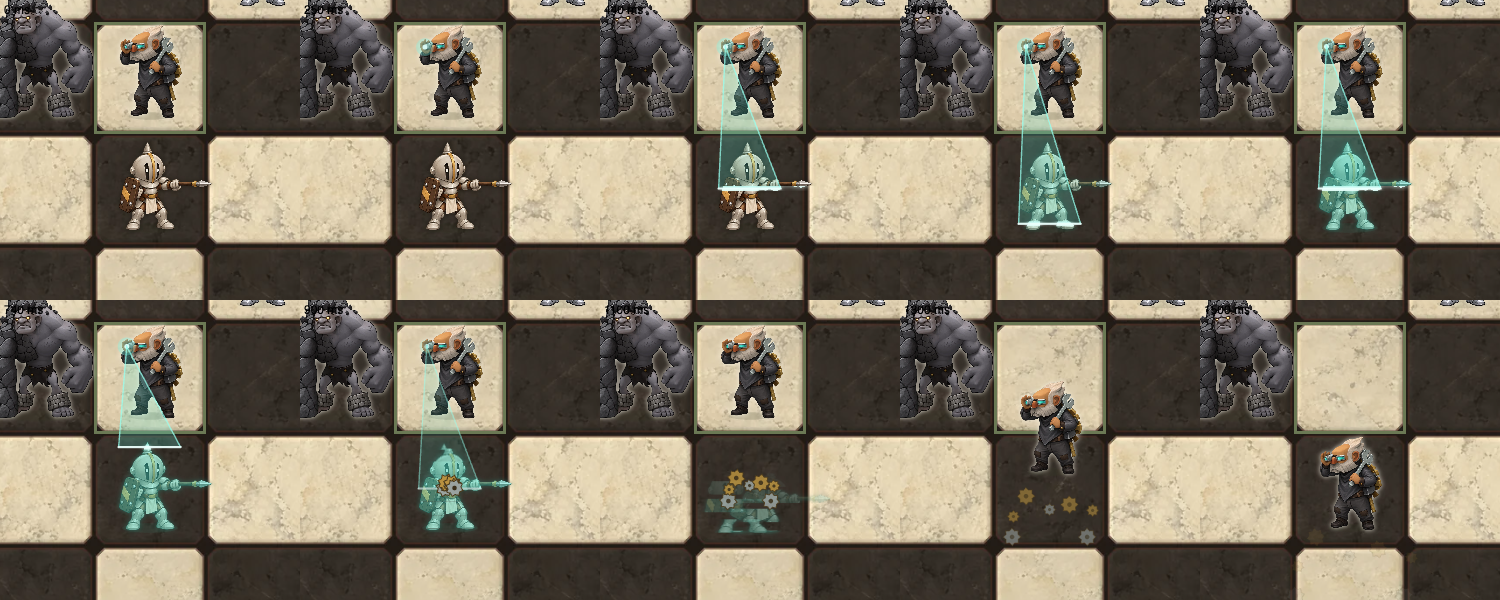
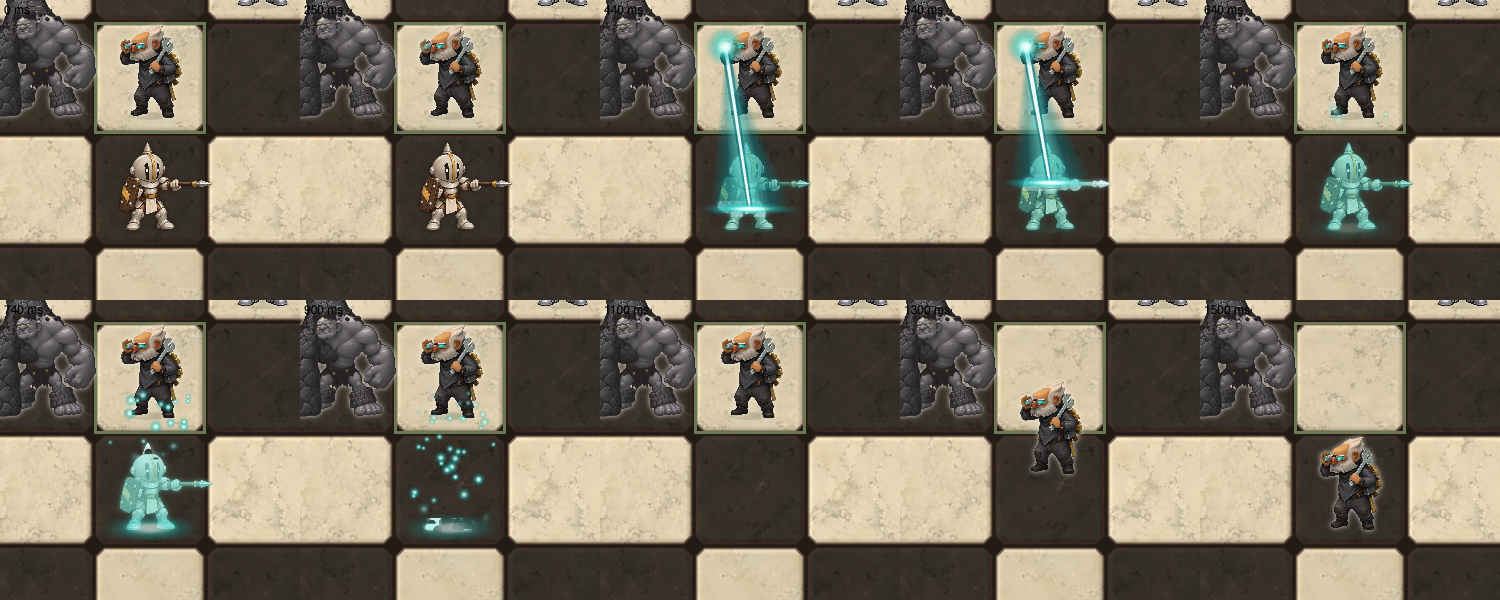
Give the Maester's ray and the Archer's arrow fitting captures
The beam was a 100 ms thin line and the arrow a few specks at game size, and
each victim faded in 180 ms. The ray now holds on the lens and scans the victim,
which comes apart into light. The arrow lands at the chest and the victim
staggers and falls. New drawing is in fx-ranged.mjs; the published effects stay.

diff --git a/docs/specs/effects-animation/issues/34-ranged-captures.md b/docs/specs/effects-animation/issues/34-ranged-captures.md
@@ -1,0 +1,23 @@
+# Ranged captures: the Maester's ray and the Archer's arrow
+
+Status: ready-for-human
+Type: task
+
+The owner asks for stronger effects and fitting deaths. Before this change, the published beam showed for 100 ms at about 8 px wide, the arrow was a few specks at game size, and each victim faded in 180 ms.
+
+## Change
+
+- New module: `docs/2d-first-pieces/board/fx-ranged.mjs`. All values are functions of the attack clock, so Fast, a flipped board and a rewind need nothing more. Reduced motion keeps the slide and the fade.
+- Maester: the body holds the painted release frame for 240 ms more. The ray starts at the `ocular` anchor, reaches the victim 30 ms after release (the contact stays there), scans it down and up, then the victim comes apart into motes of light from the top down. He steps in after the last mote. The action is 1510 ms, was 1270 ms.
+- Archer: the published arrow draws larger, with a trail. It lands at the chest, stays in the body, and the victim flashes, staggers, falls away from the shot, raises dust and fades. The action ends 620 ms after contact, about 1260 ms; it was 850 ms.
+- The published effect modules and their art do not change. The ray and the lodged arrow draw through them.
+- The fallback without painted attacks uses the same ray, dissolve and fall.
+
+## Limits
+
+- The painted nocked arrow stays in the Archer's frames while the separate arrow travels. A repaint of the attack frames is the only fix.
+- The victim falls as one rigid figure. No victim has painted death frames.
+
+## Evidence
+
+`~/kd-runs/fx/ranged/before-after.gif` and `before-after.png`.
